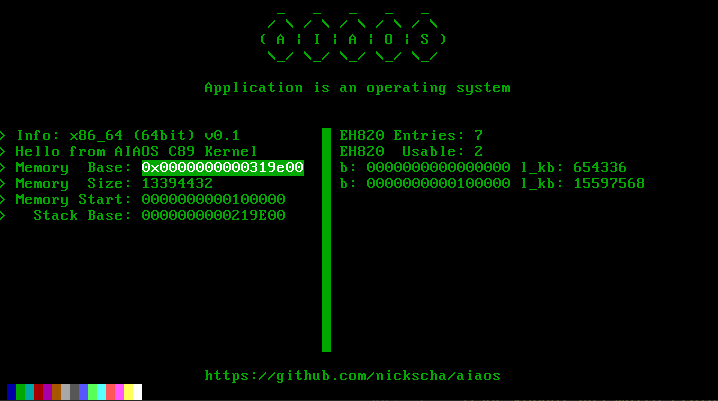
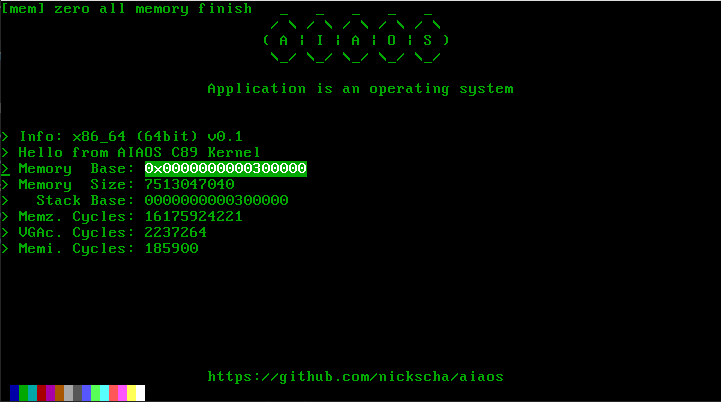
[TEST] rdtsc cpu cycles counts

diff --git a/aiaos_kernel.c b/aiaos_kernel.c
@@ -12,6 +12,24 @@ LICENSE
 #include "aiaos_kernel_memory.h"
 #include "aiaos_kernel_vga.h"
 
+typedef struct aiaos_perf_type_llu
+{
+  unsigned long low_part;
+  unsigned long high_part;
+} aiaos_perf_type_llu;
+
+double aiaos_perf_type_llu_to_double(aiaos_perf_type_llu a)
+{
+  return ((double)a.high_part * 4294967296.0 + (double)a.low_part);
+}
+
+unsigned long aiaos_perf_rdtsc(void)
+{
+  aiaos_perf_type_llu rdtsc_value = {0};
+  __asm __volatile("rdtsc" : "=a"(rdtsc_value.low_part), "=d"(rdtsc_value.high_part));
+  return ((unsigned long)aiaos_perf_type_llu_to_double(rdtsc_value));
+}
+
 void _start_kernel(void)
 {
   int aiaos_logo_length = 23;
@@ -20,12 +38,25 @@ void _start_kernel(void)
   int aiaos_logo_long_col_offset = (AIAOS_KERNEL_VGA_COLUMNS_NUM - 34) / 2;
   char buf[31];
   int i;
+  unsigned long vgaclear_cpu_cycles_start;
+  unsigned long vgaclear_cpu_cycles_end;
+  unsigned long meminit_cpu_cycles_start;
+  unsigned long meminit_cpu_cycles_end;
+  unsigned long memzero_cpu_cycles_start;
+  unsigned long memzero_cpu_cycles_end;
 
+  meminit_cpu_cycles_start = aiaos_perf_rdtsc();
   aiaos_kernel_memory_initialize();
+  meminit_cpu_cycles_end = aiaos_perf_rdtsc();
 
+  vgaclear_cpu_cycles_start = aiaos_perf_rdtsc();
   aiaos_kernel_vga_clear_screen();
+  vgaclear_cpu_cycles_end = aiaos_perf_rdtsc();
+
   aiaos_kernel_vga_write_string("[mem] zero all memory started", 0, 0, AIAOS_KERNEL_VGA_COLOR_WHITE);
+  memzero_cpu_cycles_start = aiaos_perf_rdtsc();
   aiaos_kernel_memory_zero(aiaos_kernel_memory, aiaos_kernel_memory_size);
+  memzero_cpu_cycles_end = aiaos_perf_rdtsc();
   aiaos_kernel_vga_clear_screen_row(0);
   aiaos_kernel_vga_write_string("[mem] zero all memory finish", 0, 0, AIAOS_KERNEL_VGA_COLOR_GREEN);
 
@@ -51,6 +82,18 @@ void _start_kernel(void)
   aiaos_kernel_types_uint_to_hex(buf, AIAOS_KERNEL_MEMORY_OFFSET, 16);
   aiaos_kernel_vga_write_string(">   Stack Base:", 12, 0, AIAOS_KERNEL_VGA_COLOR_GREEN);
   aiaos_kernel_vga_write_string(buf, 12, 16, AIAOS_KERNEL_VGA_COLOR_GREEN);
+
+  aiaos_kernel_types_ultoa(memzero_cpu_cycles_end - memzero_cpu_cycles_start, buf);
+  aiaos_kernel_vga_write_string("> Memz. Cycles:", 13, 0, AIAOS_KERNEL_VGA_COLOR_GREEN);
+  aiaos_kernel_vga_write_string(buf, 13, 16, AIAOS_KERNEL_VGA_COLOR_GREEN);
+
+  aiaos_kernel_types_ultoa(vgaclear_cpu_cycles_end - vgaclear_cpu_cycles_start, buf);
+  aiaos_kernel_vga_write_string("> VGAc. Cycles:", 14, 0, AIAOS_KERNEL_VGA_COLOR_GREEN);
+  aiaos_kernel_vga_write_string(buf, 14, 16, AIAOS_KERNEL_VGA_COLOR_GREEN);
+
+  aiaos_kernel_types_ultoa(meminit_cpu_cycles_end - meminit_cpu_cycles_start, buf);
+  aiaos_kernel_vga_write_string("> Memi. Cycles:", 15, 0, AIAOS_KERNEL_VGA_COLOR_GREEN);
+  aiaos_kernel_vga_write_string(buf, 15, 16, AIAOS_KERNEL_VGA_COLOR_GREEN);
 
   /* Footer */
   aiaos_kernel_vga_write_string("https://github.com/nickscha/aiaos", 23, aiaos_logo_long_col_offset, AIAOS_KERNEL_VGA_COLOR_GREEN);

diff --git a/aiaos_kernel_memory.h b/aiaos_kernel_memory.h
@@ -51,7 +51,7 @@ void aiaos_kernel_memory_zero(void *ptr, unsigned long size)
         remainder = chunk_size % 8;
         chunk_ptr = (void *)chunk_start;
 
-        __asm__ __volatile__(
+        __asm __volatile(
             "rep stosq"
             : "+D"(chunk_ptr), "+c"(num_qwords)
             : "a"(0)
